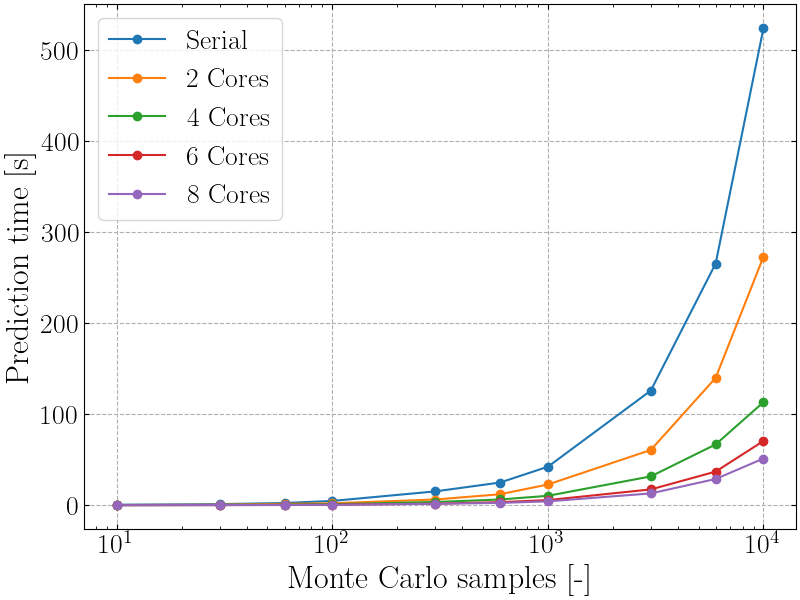
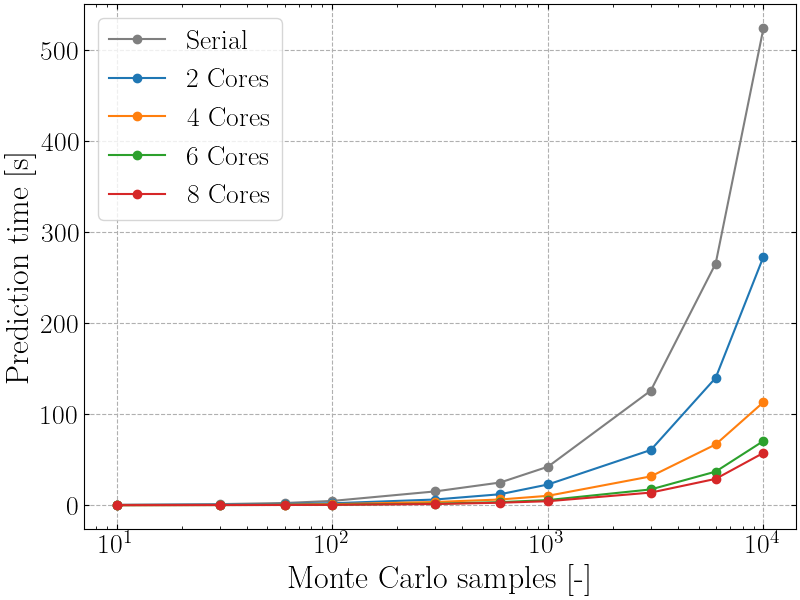
Update 22012024

diff --git a/results/plot_results.py b/results/plot_results.py
@@ -49,7 +49,10 @@ prediction_time_n6 = pd.read_csv('./results/prediction_time_study_n6.csv')
 prediction_time_n8 = pd.read_csv('./results/prediction_time_study_n8.csv')
 
 mc_samples = prediction_time_n2['mc_samples'].values
-pred_time_serial = prediction_time_n2['pred_time_serial'].values
+pred_time_serial_n2 = prediction_time_n2['pred_time_serial'].values
+pred_time_serial_n4 = prediction_time_n4['pred_time_serial'].values
+pred_time_serial_n6 = prediction_time_n6['pred_time_serial'].values
+pred_time_serial_n8 = prediction_time_n8['pred_time_serial'].values
 pred_time_n2 = prediction_time_n2['pred_time_parallel'].values
 pred_time_n4 = prediction_time_n4['pred_time_parallel'].values
 pred_time_n6 = prediction_time_n6['pred_time_parallel'].values
@@ -59,11 +62,11 @@ pred_time_n8 = prediction_time_n8['pred_time_parallel'].values
 # PLOT SPEED-UP FIGURE
 #==============================================================================
 fig, ax = plt.subplots(figsize=(8,6), constrained_layout=True)
-plt.plot(mc_samples, pred_time_serial, marker='o')
-plt.plot(mc_samples, pred_time_n2, marker='o')
-plt.plot(mc_samples, pred_time_n4, marker='o')
-plt.plot(mc_samples, pred_time_n6, marker='o')
-plt.plot(mc_samples, pred_time_n8, marker='o')
+plt.plot(mc_samples, pred_time_serial_n2, marker='o', c = 'tab:gray')
+plt.plot(mc_samples, pred_time_n2, marker='o', c = 'tab:blue')
+plt.plot(mc_samples, pred_time_n4, marker='o', c = 'tab:orange')
+plt.plot(mc_samples, pred_time_n6, marker='o', c = 'tab:green')
+plt.plot(mc_samples, pred_time_n8, marker='o', c = 'tab:red')
 plt.xscale('log')
 plt.xlabel(r'Monte Carlo samples [-]', fontsize=23)
 plt.ylabel(r'Prediction time [s]', fontsize=23)
@@ -73,10 +76,10 @@ plt.savefig(working_path + '/MCDropout_MPI/results/prediction_time_study.png')
 
 fig, ax = plt.subplots(figsize=(8,6), constrained_layout=True)
 # plt.plot(mc_samples, pred_time_serial, marker='o')
-plt.plot(mc_samples, pred_time_serial/pred_time_n2, marker='o')
-plt.plot(mc_samples, pred_time_serial/pred_time_n4, marker='o')
-plt.plot(mc_samples, pred_time_serial/pred_time_n6, marker='o')
-plt.plot(mc_samples, pred_time_serial/pred_time_n8, marker='o')
+plt.plot(mc_samples, pred_time_serial_n2/pred_time_n2, marker='o', c = 'tab:blue')
+plt.plot(mc_samples, pred_time_serial_n4/pred_time_n4, marker='o', c = 'tab:orange')
+plt.plot(mc_samples, pred_time_serial_n6/pred_time_n6, marker='o', c = 'tab:green')
+plt.plot(mc_samples, pred_time_serial_n8/pred_time_n8, marker='o', c = 'tab:red')
 plt.xscale('log')
 plt.xlabel(r'Monte Carlo samples [-]', fontsize=23)
 plt.ylabel(r'Speed-up [-]', fontsize=23)
